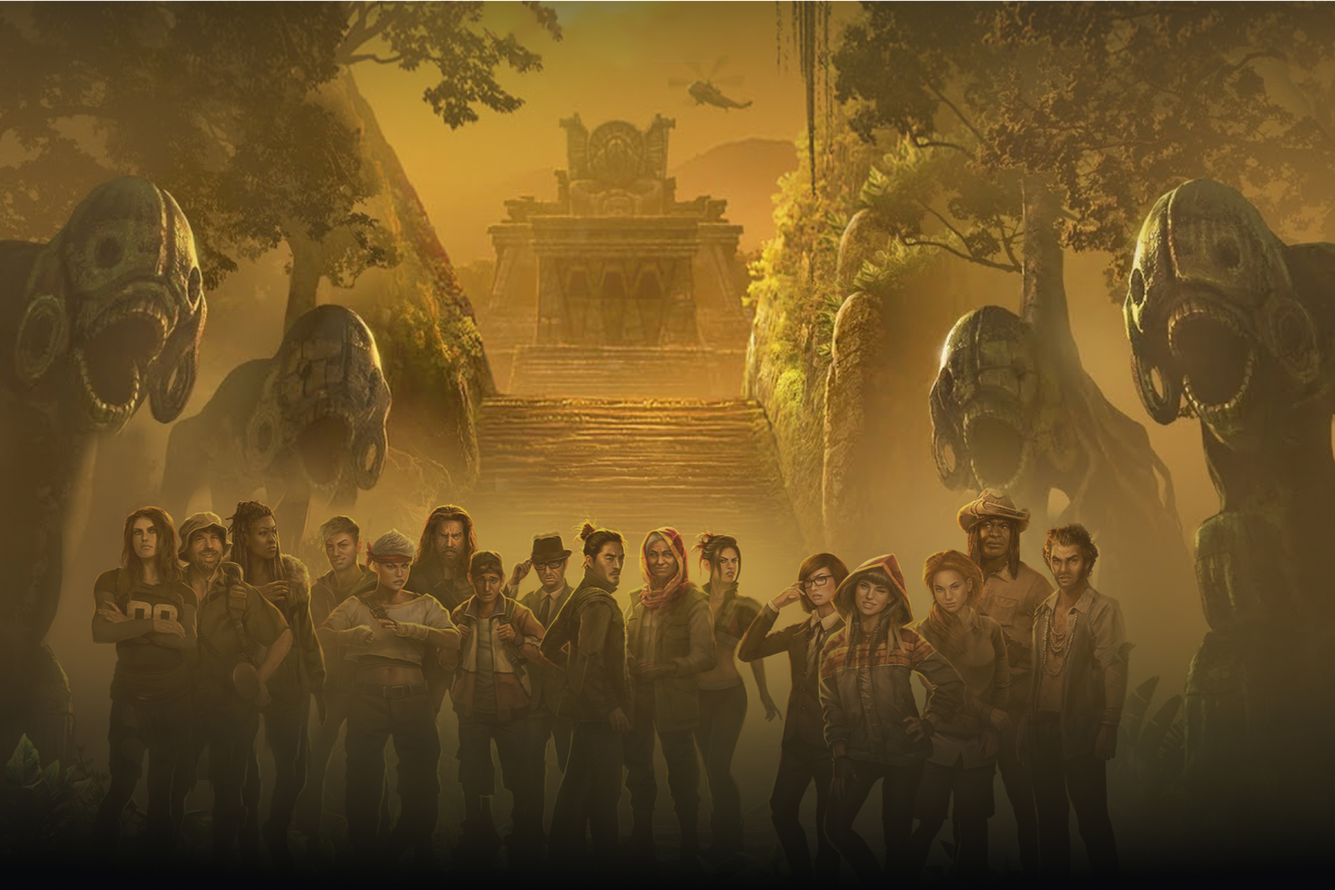
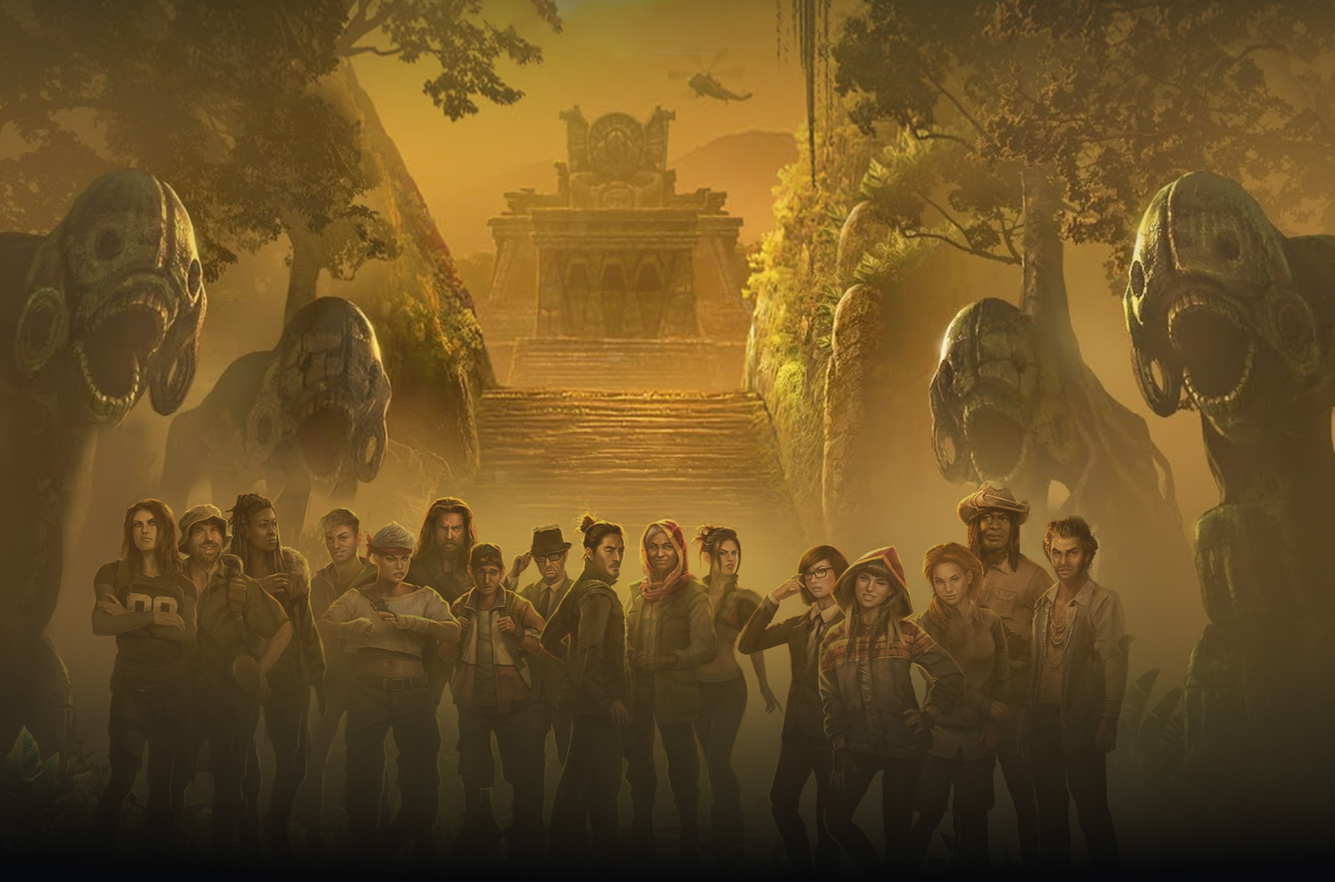
Fix bg-img at section hero

diff --git a/src/css/style.css b/src/css/style.css
@@ -41,10 +41,7 @@ body {
 
 .hero {
   padding-top: 20px;
-  height: 960px;
-  background: url("../img/hero/bg.jpg") no-repeat;
-  background-size: cover;
-  background-position: center top;
+  background: url("../img/hero/bg.jpg") no-repeat center top/cover;
 }
 
 .navbar {

diff --git a/src/sass/blocks/_hero.sass b/src/sass/blocks/_hero.sass
@@ -1,6 +1,3 @@
 .hero
     padding-top: 20px
-    height: 960px
-    background: url('../img/hero/bg.jpg') no-repeat 
-    background-size: cover
-    background-position: center top
+    background: url('../img/hero/bg.jpg') no-repeat center top / cover
